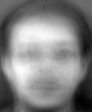
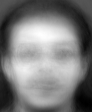
Add files via upload

Changed region(s): [[0.0, 0.0, 0.913, 0.2946], [0.0, 0.5625, 0.2391, 0.8571]]

diff --git a/crop.py b/crop.py
@@ -1,0 +1,67 @@
+#/bin/bash/python
+import cv2
+#import os
+import sys
+#import glob
+import numpy as np
+
+
+
+
+
+
+
+FACE_WIDTH  = 92
+FACE_HEIGHT = 112
+
+
+HAAR_FACES         = 'haarcascade_frontalface_alt.xml'
+HAAR_SCALE_FACTOR  = 1.3
+HAAR_MIN_NEIGHBORS = 4
+HAAR_MIN_SIZE      = (30, 30)
+
+
+
+
+# Get user supplied values
+
+#importing or defining haarcascade
+face_cascade = cv2.CascadeClassifier('haarcascade_frontalface_default.xml')
+eye_cascade = cv2.CascadeClassifier('haarcascade_eye.xml')
+
+
+# will have to find a way to change the camera for raspberry pi setup
+#fourcc = cv2.VideoWriter_fourcc('XVID')
+#out = cv2.VideoWriter('~Desktop/output.avi',fourcc, 20.0, (640,480))
+
+
+def detect_single(image):
+	"""Return bounds (x, y, width, height) of detected face in grayscale image.
+	   If no face or more than one face are detected, None is returned.
+	"""
+	faces = face_cascade.detectMultiScale(image, 
+				scaleFactor=HAAR_SCALE_FACTOR, 
+				minNeighbors=HAAR_MIN_NEIGHBORS, 
+				minSize=HAAR_MIN_SIZE, 
+				flags=cv2.CASCADE_SCALE_IMAGE)
+	if len(faces) != 1:
+		return None
+	return faces[0]
+
+def crop(image, x, y, w, h):
+	"""Crop box defined by x, y (upper left corner) and w, h (width and height)
+	to an image with the same aspect ratio as the face training data.  Might
+	return a smaller crop if the box is near the edge of the image.
+	"""
+	crop_height = int((FACE_HEIGHT / float(FACE_WIDTH)) * w)
+	midy = y + h/2
+	y1 = max(0, midy-crop_height/2)
+	y2 = min(image.shape[0]-1, midy+crop_height/2)
+	return image[y1:y2, x:x+w]
+
+def resize(image):
+	"""Resize a face image to the proper size for training and detection.
+	"""
+	return cv2.resize(image, 
+					  (FACE_WIDTH, FACE_HEIGHT), 
+					  interpolation=cv2.INTER_LANCZOS4)

diff --git a/analyze.py b/analyze.py
@@ -1,3 +1,6 @@
+
+
+
 ####### IMPORTING LIBS
 import cv2
 import config
@@ -10,6 +13,7 @@ import numpy
 import RPi.GPIO as GPIO
 #used for time delays
 import time
+import crop ## crop library (autocropping)
 
 
 
@@ -47,7 +51,7 @@ stream = io.BytesIO()
 
 #### TO TAKE PICTURE WITH PI CAM
 with picamera.PiCamera() as camera:
-    camera.resolution = (92, 112)
+    camera.resolution = (640,480)
     camera.capture(stream, format='jpeg')
 
 
@@ -63,17 +67,22 @@ image = cv2.imdecode(buff, 1)
 
 
 
-
     
 #### CONVERT IMAGE TO GRAYSCALE
    
 image = cv2.cvtColor(image,cv2.COLOR_BGR2GRAY)
 #cv2.imshow('image',image) 
 
+faces = crop.detect_single(image) # passinng captured image through face detection
 
 
-#### PASSING THE IMAGE TO MODEL 
-label, confidence = model.predict(image)
+cr = crop.crop(image,faces[0],faces[1],faces[2],faces[3]) # cropping the image to the size of face
+
+cr = crop.resize(cr) # resizing image for recognition
+
+
+#### recognition
+label, confidence = model.predict(cr)
 
 
 
@@ -119,16 +128,16 @@ if label == POSITIVE_LABEL and confidence < POSITIVE_THRESHOLD:
 	
 	print 'Recognized face!'
 	## OPENING THE LOCK
-	dutyCyclePercentage= lPos*100/msPerCycle
-	pwm.start(dutyCyclePercentage)
-	## WAITING FOR 7 SECONDS
-	time.sleep(7)
-	## CLOSING THE LOCK
-	dutyCyclePercentage= mPos*100/msPerCycle
-	pwm.start(dutyCyclePercentage)
-	time.sleep(1)
-	pwm.stop()
-	GPIO.cleanup()
+	#dutyCyclePercentage= lPos*100/msPerCycle
+	#pwm.start(dutyCyclePercentage)
+	### WAITING FOR 7 SECONDS
+	#time.sleep(7)
+	### CLOSING THE LOCK
+	#dutyCyclePercentage= mPos*100/msPerCycle
+	#pwm.start(dutyCyclePercentage)
+	#time.sleep(1)
+	#pwm.stop()
+	#GPIO.cleanup()
 
 	
 else:

diff --git a/indoor_control.py b/indoor_control.py
@@ -1,0 +1,65 @@
+import RPi.GPIO as GPIO
+
+import time
+GPIO.setmode(GPIO.BOARD)
+GPIO.setup(40, GPIO.OUT)
+#set pwm pin to pin 40, with cycle frequency in hertz
+pwm=GPIO.PWM(40,50)
+
+GPIO.setup(11, GPIO.IN, pull_up_down=GPIO.PUD_DOWN)
+
+#GPIO.setup(7,GPIO.OUT)
+#GPIO.output(7,0)
+
+lPos=0.75
+rPos=2.75
+mPos=1.75
+
+msPerCycle=1000/50
+######################### SERVO CONTROL SETUP CODE END #######################   
+
+
+
+try:
+		while True:
+			#GPIO.output(7,GPIO.input(11))
+			
+			###### Code goes here ###
+			if(GPIO.input(11)== 1):
+				## OPENING THE LOCK
+				dutyCyclePercentage= lPos*100/msPerCycle
+				pwm.start(dutyCyclePercentage)
+				## WAITING FOR 7 SECONDS
+				time.sleep(5)
+				## CLOSING THE LOCK
+				dutyCyclePercentage= mPos*100/msPerCycle
+				pwm.start(dutyCyclePercentage)
+				time.sleep(1)
+				
+
+				#GPIO.output(7,1)
+			#else:
+				#GPIO.output(7,0)
+			
+except KeyboardInterrupt:
+	pwm.stop()
+	GPIO.cleanup()
+
+
+
+########## SERVO SETUP WITHOUT LIBRARY IMPORT #########################
+# libraries are already imported at the start of the program
+
+# tell us which pins to use and what pin to set as output
+#GPIO.setmode(GPIO.BOARD)
+
+
+#duty cycles for specific duration
+#figure out pulse times for the position you want
+
+# list of directions to turn
+#posList=[lPos,mPos,rPos,mPos]
+#posList=[lPos,mPos]
+
+#milliseconds in a cycle, calculated with hertz
+

diff --git a/web_dooropen.py b/web_dooropen.py
@@ -1,0 +1,43 @@
+#!/usr/bin/env python
+
+
+#for accessing the GPIO pins
+import RPi.GPIO as GPIO
+#used for time delays
+import time
+
+########## SERVO SETUP WITHOUT LIBRARY IMPORT #########################
+# libraries are already imported at the start of the program
+
+# tell us which pins to use and what pin to set as output
+GPIO.setmode(GPIO.BOARD)
+GPIO.setup(40, GPIO.OUT)
+#set pwm pin to pin 40, with cycle frequency in hertz
+pwm=GPIO.PWM(40,50)
+
+#duty cycles for specific duration
+#figure out pulse times for the position you want
+lPos=0.75
+rPos=2.75
+mPos=1.75
+
+# list of directions to turn
+#posList=[lPos,mPos,rPos,mPos]
+#posList=[lPos,mPos]
+
+#milliseconds in a cycle, calculated with hertz
+msPerCycle=1000/50
+######################### SERVO CONTROL SETUP CODE END #######################   
+
+
+## OPENING THE LOCK
+dutyCyclePercentage= lPos*100/msPerCycle
+pwm.start(dutyCyclePercentage)
+## WAITING FOR 7 SECONDS
+time.sleep(7)
+## CLOSING THE LOCK
+dutyCyclePercentage= mPos*100/msPerCycle
+pwm.start(dutyCyclePercentage)
+time.sleep(1)
+pwm.stop()
+GPIO.cleanup()

diff --git a/web_doorclose.py b/web_doorclose.py
@@ -1,0 +1,40 @@
+#!/usr/bin/env python
+
+
+#for accessing the GPIO pins
+import RPi.GPIO as GPIO
+#used for time delays
+import time
+
+########## SERVO SETUP WITHOUT LIBRARY IMPORT #########################
+# libraries are already imported at the start of the program
+
+# tell us which pins to use and what pin to set as output
+GPIO.setmode(GPIO.BOARD)
+GPIO.setup(40, GPIO.OUT)
+#set pwm pin to pin 40, with cycle frequency in hertz
+pwm=GPIO.PWM(40,50)
+
+#duty cycles for specific duration
+#figure out pulse times for the position you want
+lPos=0.75
+rPos=2.75
+mPos=1.75
+
+# list of directions to turn
+#posList=[lPos,mPos,rPos,mPos]
+#posList=[lPos,mPos]
+
+#milliseconds in a cycle, calculated with hertz
+msPerCycle=1000/50
+######################### SERVO CONTROL SETUP CODE END #######################   
+
+
+
+
+## CLOSING THE LOCK
+dutyCyclePercentage= mPos*100/msPerCycle
+pwm.start(dutyCyclePercentage)
+time.sleep(1)
+pwm.stop()
+GPIO.cleanup()

diff --git a/config.py b/config.py
@@ -1,9 +1,5 @@
-
-# Copyright 2013 Tony DiCola
-
-# this is little modified file from original
-
-## for original  goto https://github.com/tdicola/pi-facerec-box 
+# Raspberry Pi Face Recognition Treasure Box Configuration
+# Copyright 2013 Tony DiCola 
 
 # Edit the values below to configure the training and usage of the
 # face recognition box.
@@ -31,9 +27,9 @@
 # Start with a value of 3000, but you might need to tweak this value down if 
 # you're getting too many false positives (incorrectly recognized faces), or up
 # if too many false negatives (undetected faces).
-#POSITIVE_THRESHOLD = 7500
+POSITIVE_THRESHOLD = 7500
 # File to save and load face recognizer model.
-#TRAINING_FILE = 'training.xml'
+TRAINING_FILE = 'training.xml'
 
 # Directories which contain the positive and negative training image data.
 POSITIVE_DIR = './training/positive'

diff --git a/capture.py b/capture.py
@@ -8,13 +8,15 @@ import io
 import picamera
 import numpy 
 import config
+import crop
+
 POSITIVE_FILE_PREFIX = 'positive_'
 
 ##### CAPTURE IMAGE WITH PICAM
 stream = io.BytesIO()
 
 with picamera.PiCamera() as camera:
-    camera.resolution = (92, 112)
+    camera.resolution = (640, 480)
     camera.capture(stream, format='jpeg')
     
     
@@ -37,8 +39,13 @@ face_cascade = cv2.CascadeClassifier('/usr/share/opencv/haarcascades/haarcascade
 
 #### CHEKING FOR THE FACE AND LOCATING IT
 
+faces = crop.detect_single(image)
 
-faces = face_cascade.detectMultiScale(image, 1.1, 5)
+
+image = crop.crop(image,faces[0],faces[1],faces[2],faces[3])
+
+image = crop.resize(image)
+#faces = face_cascade.detectMultiScale(image, 1.1, 5)
 
 count = 0
 
